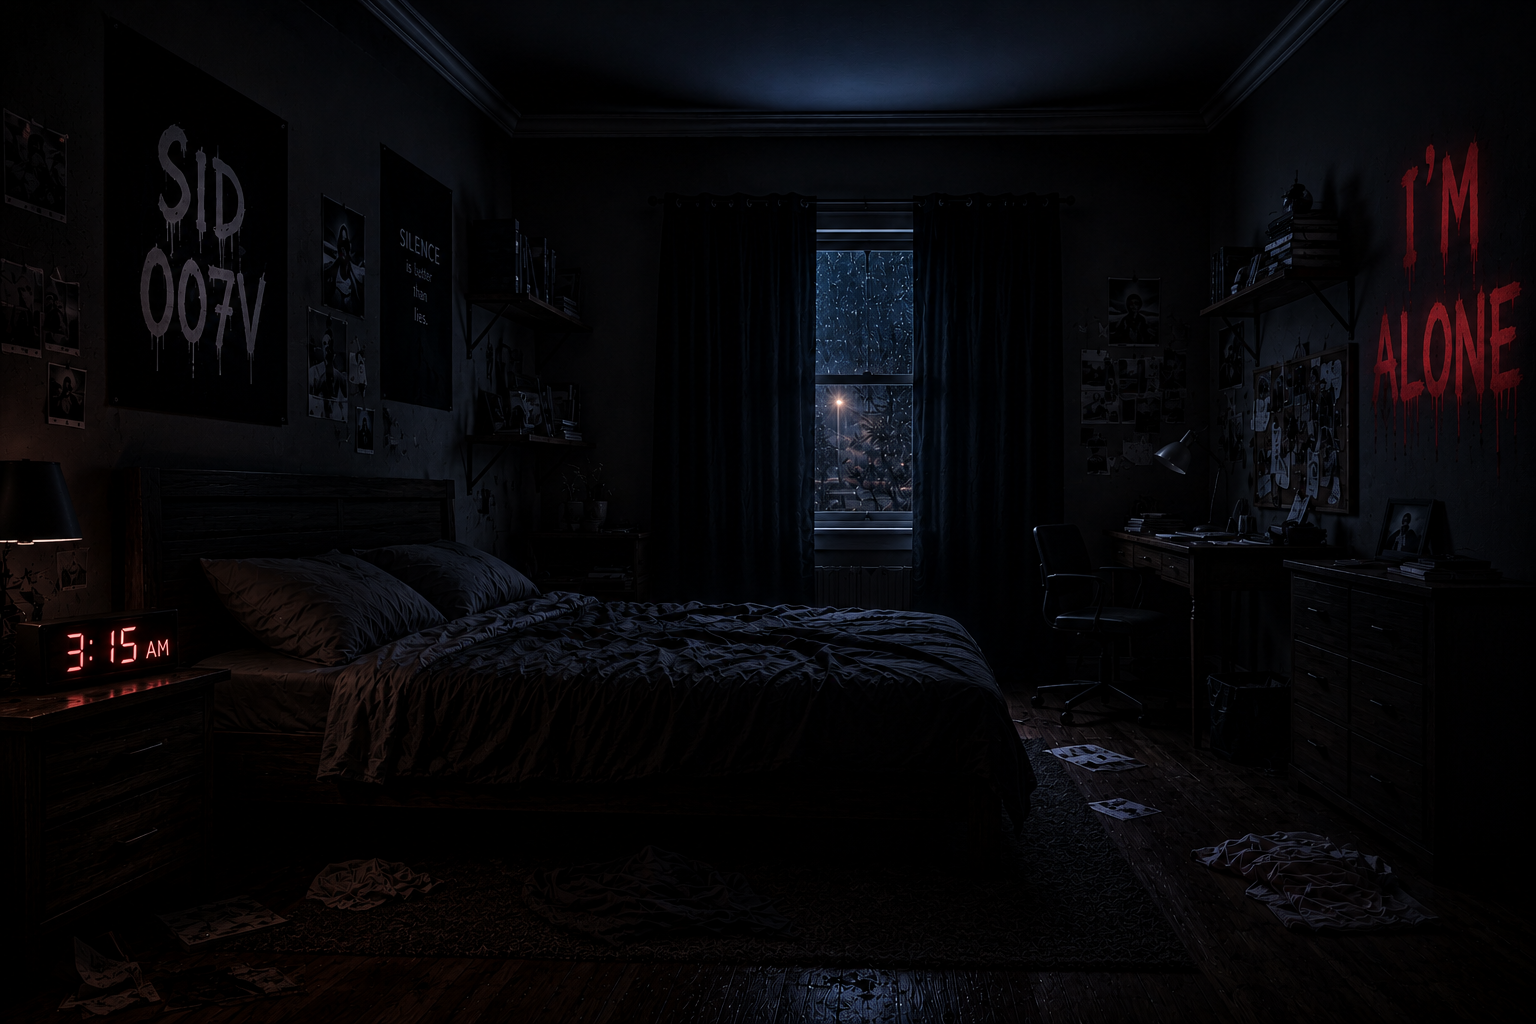
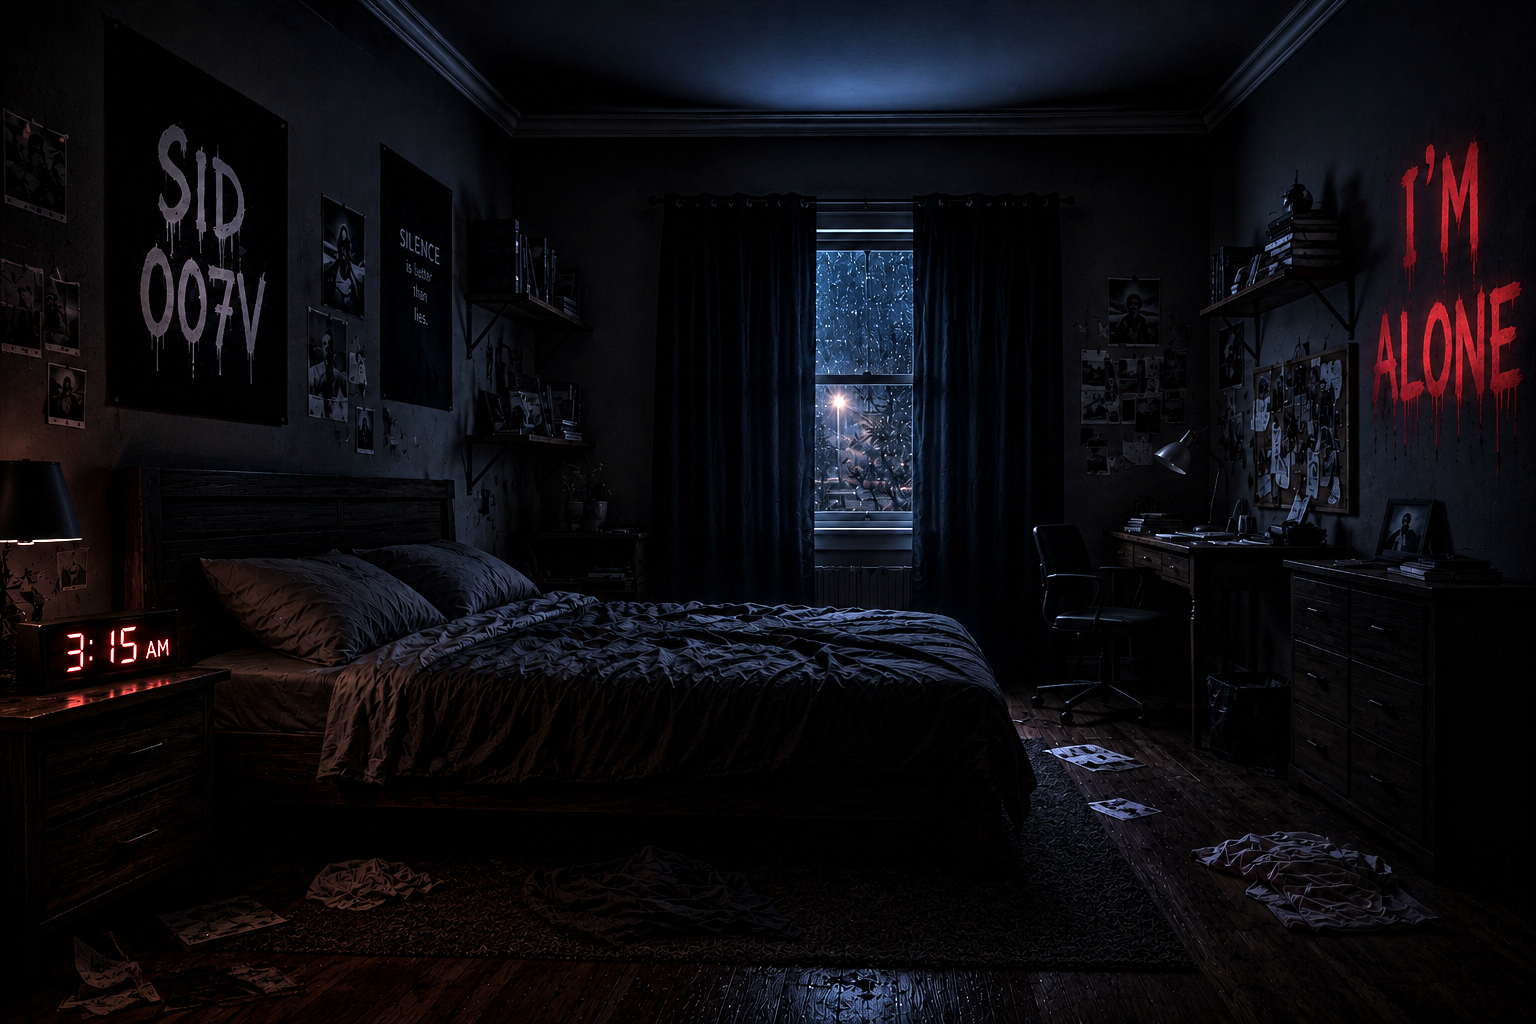
Add bedroom

diff --git a/js/scenes/bedroom.js b/js/scenes/bedroom.js
@@ -7,11 +7,32 @@ class BedroomScene {
 
     }
 
-    start() {
+start() {
 
-        console.log("Bedroom Loaded");
+    console.log("Bedroom Loaded");
 
-    }
+    // Fade out clock ticking
+    const fadeClock = setInterval(() => {
+
+        if (clockSound.volume > 0.01) {
+
+            clockSound.volume -= 0.01;
+
+        } else {
+
+            clearInterval(fadeClock);
+
+            clockSound.pause();
+            clockSound.currentTime = 0;
+
+            // Reset for future use
+            clockSound.volume = 0.18;
+
+        }
+
+    }, 80);
+
+}
 
     // 👇 REPLACE THIS
     update() {

diff --git a/js/core/game.js b/js/core/game.js
@@ -104,13 +104,29 @@ cameraShake.end();
 // Keyboard
 // =========================================
 
-window.addEventListener("keydown", (e) => {
+window.addEventListener("keydown",(e)=>{
+
+    if(e.key==="a" || e.key==="ArrowLeft")
+        player.left=true;
+
+    if(e.key==="d" || e.key==="ArrowRight")
+        player.right=true;
 
     sceneManager.keyDown(e);
 
 });
 
-window.addEventListener("keyup", (e) => {
+   
+
+
+
+window.addEventListener("keyup",(e)=>{
+
+    if(e.key==="a" || e.key==="ArrowLeft")
+        player.left=false;
+
+    if(e.key==="d" || e.key==="ArrowRight")
+        player.right=false;
 
     sceneManager.keyUp(e);
 